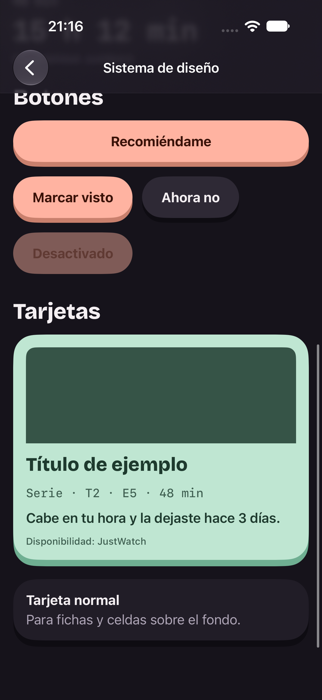
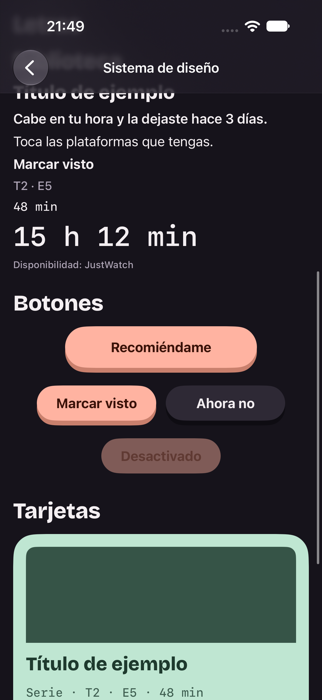
feat(design-system): fixed button sizes and an equal-width button row
Buttons no longer stretch: large (52x240 min) for the screen's main action,
regular (44x140 min) for the rest. Pairs line up through CueButtonRow.

diff --git a/CueKit/Sources/DesignSystem/Components/CueButtonRow.swift b/CueKit/Sources/DesignSystem/Components/CueButtonRow.swift
@@ -1,0 +1,52 @@
+import SwiftUI
+
+/// A row of Cue buttons that all take the width of the widest one, so a pair lines up.
+public struct CueButtonRow<Content: View>: View {
+    let spacing: CGFloat
+    let content: Content
+
+    public init(spacing: CGFloat = CueSpacing.space3, @ViewBuilder content: () -> Content) {
+        self.spacing = spacing
+        self.content = content()
+    }
+
+    public var body: some View {
+        EqualWidthLayout(spacing: spacing) { content }
+            .environment(\.cueButtonFillsRowCell, true)
+    }
+}
+
+extension EnvironmentValues {
+    /// Inside a `CueButtonRow`, buttons widen to the shared cell instead of hugging their text.
+    @Entry var cueButtonFillsRowCell = false
+}
+
+/// Places pieces side by side, each as wide as the widest one's ideal width.
+struct EqualWidthLayout: Layout {
+    let spacing: CGFloat
+
+    func sizeThatFits(proposal: ProposedViewSize, subviews: Subviews, cache: inout ()) -> CGSize {
+        guard !subviews.isEmpty else { return .zero }
+        let cell = cellSize(of: subviews)
+        let gaps = spacing * CGFloat(subviews.count - 1)
+        return CGSize(width: cell.width * CGFloat(subviews.count) + gaps, height: cell.height)
+    }
+
+    func placeSubviews(in bounds: CGRect, proposal: ProposedViewSize, subviews: Subviews, cache: inout ()) {
+        let cell = cellSize(of: subviews)
+        var originX = bounds.minX
+        for subview in subviews {
+            subview.place(
+                at: CGPoint(x: originX, y: bounds.minY),
+                proposal: ProposedViewSize(width: cell.width, height: cell.height)
+            )
+            originX += cell.width + spacing
+        }
+    }
+
+    private func cellSize(of subviews: Subviews) -> CGSize {
+        subviews.map { $0.sizeThatFits(.unspecified) }.reduce(.zero) {
+            CGSize(width: max($0.width, $1.width), height: max($0.height, $1.height))
+        }
+    }
+}

diff --git a/CueKit/Sources/DesignSystem/Components/CueButtonStyle.swift b/CueKit/Sources/DesignSystem/Components/CueButtonStyle.swift
@@ -65,6 +65,7 @@ private struct CueButtonBody: View {
 
     @Environment(\.accessibilityReduceMotion) private var reduceMotion
     @Environment(\.isEnabled) private var isEnabled
+    @Environment(\.cueButtonFillsRowCell) private var fillsRowCell
 
     var body: some View {
         let motion = PressMotion(
@@ -78,7 +79,11 @@ private struct CueButtonBody: View {
             .multilineTextAlignment(.center)
             .padding(.horizontal, size.horizontalPadding)
             .padding(.vertical, CueSpacing.space2)
-            .frame(minWidth: size.minimumWidth, minHeight: size.minimumHeight)
+            .frame(
+                minWidth: size.minimumWidth,
+                maxWidth: fillsRowCell ? .infinity : nil,
+                minHeight: size.minimumHeight
+            )
             .fixedSize(horizontal: false, vertical: true)
             .background(Capsule().fill(colors.fill))
             .contentShape(Capsule())

diff --git a/CueKit/Tests/DesignSystemTests/ButtonRowTests.swift b/CueKit/Tests/DesignSystemTests/ButtonRowTests.swift
@@ -1,0 +1,24 @@
+import SwiftUI
+import Testing
+
+@testable import DesignSystem
+
+@MainActor
+@Suite("Button row")
+struct ButtonRowTests {
+    @Test("Buttons side by side share the width of the widest one")
+    func sharesWidestWidth() throws {
+        let wideWidth = try #require(render(Button("Marcar visto") {}.buttonStyle(.cuePrimary))?.width)
+        let row = CueButtonRow(spacing: 12) {
+            Button("Marcar visto") {}.buttonStyle(.cuePrimary)
+            Button("Ahora no") {}.buttonStyle(.cueSecondary)
+        }
+        #expect(render(row)?.width == wideWidth * 2 + 12)
+    }
+
+    private func render(_ view: some View) -> CGImage? {
+        let renderer = ImageRenderer(content: view)
+        renderer.scale = 1
+        return renderer.cgImage
+    }
+}

diff --git a/CueKit/Sources/DesignSystem/Catalog/DesignSystemCatalog.swift b/CueKit/Sources/DesignSystem/Catalog/DesignSystemCatalog.swift
@@ -94,7 +94,7 @@
         var body: some View {
             VStack(spacing: CueSpacing.space4) {
                 Button("Recomiéndame") {}.buttonStyle(CueButtonStyle(.primary, size: .large))
-                HStack(spacing: CueSpacing.space3) {
+                CueButtonRow {
                     Button("Marcar visto") {}.buttonStyle(.cuePrimary)
                     Button("Ahora no") {}.buttonStyle(.cueSecondary)
                 }
